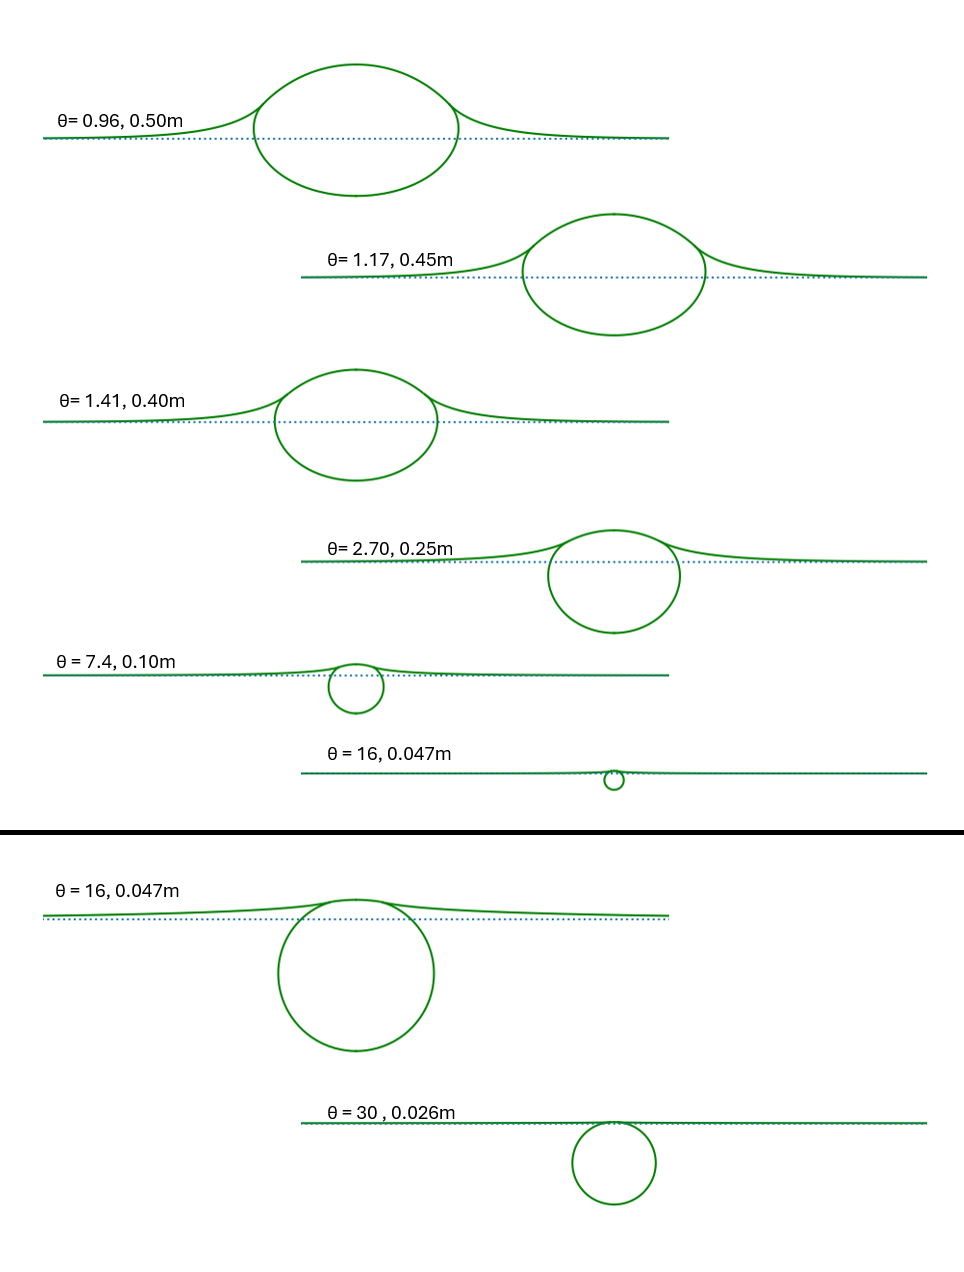
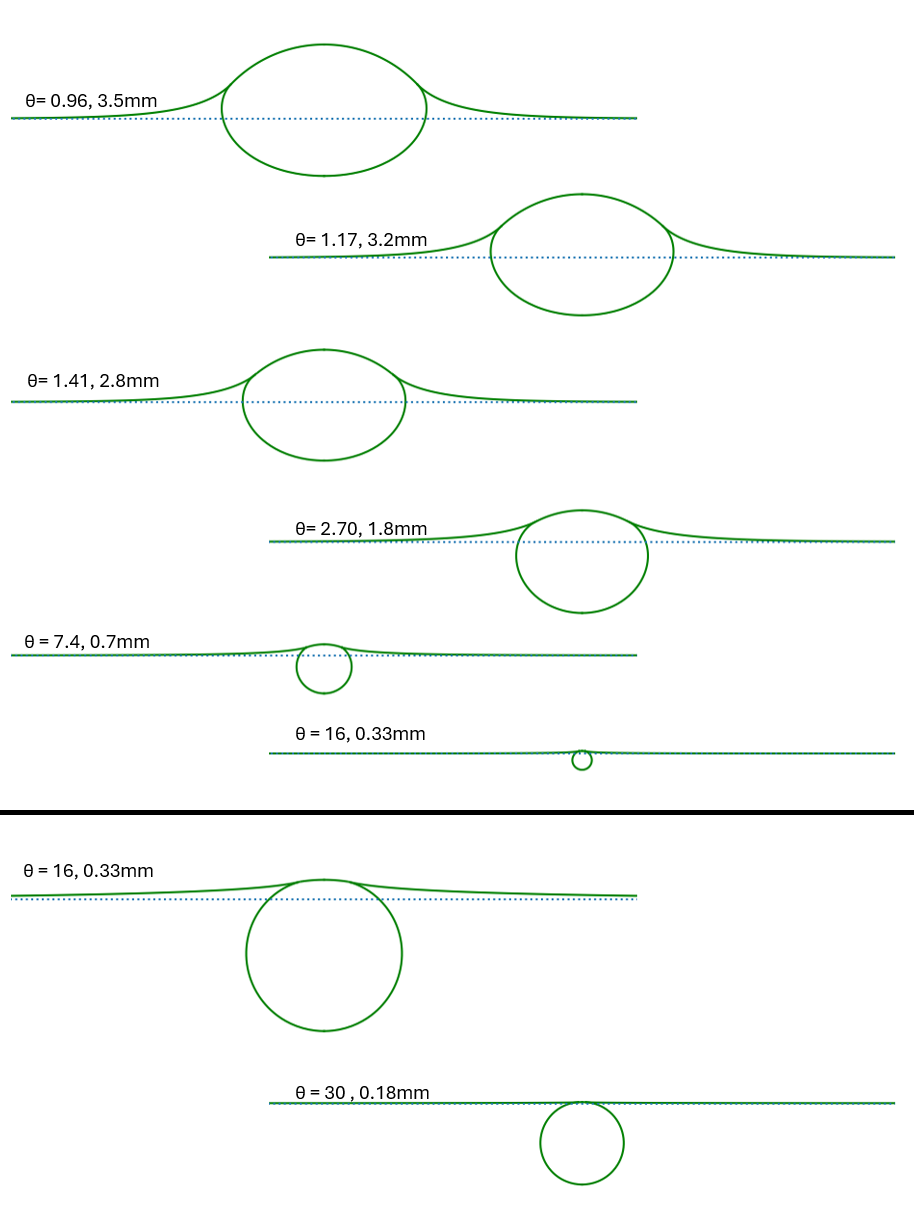
Updates from Overleaf

diff --git a/WriteUp/Initial conditions.tex b/WriteUp/Initial conditions.tex
@@ -1,21 +1,29 @@
 \section{Initial conditions}
+The shape of a bubble is determined by the interaction of two forces: Gravity and surface tension.
 
+Surface tension is an interfacial property of liquid that shows the elastic tendency, which is created by the attractive forces of the surface molecules
+
+
+
+\subsection{Governing Equations}
+Given the small size of the bubbles we are interested in, we can make the assumption that the cavity is initially motionless. Experiments have shown that, even in the absence of surfactants, a bubble can stay at the free surface in a quasi static equilibrium for a few seconds \cite{blanchard1988film}.
 We need to determine the initial shape of a bubble floating at a gas-liquid interface before it's film ruptures. This derivation is based on the work done in \cite{toba1959drop}.
+
 We are considering the case where the fluid is stationary, i.e. $\bf{u} = \bf{0}$, meaning on the boundaries we only need to consider the Young-Laplace equation:
 \begin{align}
     \Delta p=-\gamma \nabla \cdot \hat n
 \end{align}
 
-\begin{figure}[hb]
+\begin{figure}
     \centering
-    \includegraphics[width=0.55\linewidth]{WriteUp/images/bubble at surface.png}
-    \caption{A bubble floating at a surface}
+    \includegraphics[width=0.7\linewidth]{WriteUp/images/bubble at surface.png}
+    \caption{A bubble floating at a surface. Portion (A) in green is the portion of the bubble which is submerged in the liquid. Portion (B) in purple is the spherical cap of the bubble, where the sphere has radius $R_0$. Portion (C) in red is the meniscus of the bubble. All three portions meet at a point.}
     \label{fig:2}
 \end{figure}
 
 We can divide the surface of a bubble into three regions: (A) the submerged portion of the interface, (B) the thin film over the top of the bubble separating the two gas regions, (C) the regions of the interface trailing away from the border of the thin film. We neglect the thickness of the film means we can ignore the weight of the film. Adding that the difference between the gas pressures inside and out of the bubble is uniform, the thin film can be treated as a spherical surface of radius $R_0$. The force balance equations at any point on these surfaces are,
 \begin{align}\label{A_untransformed}
-    (\rho-\rho')gz = \gamma(\frac{1}{R_1}+\frac{1}{R_2}-\frac{4}{R_0})
+    (\rho-\rho')gz = \gamma \left( \frac{1}{R_1}+\frac{1}{R_2}-\frac{4}{R_0} \right)
 \end{align}
 for region (A),
 \begin{align}\label{B_untransformed}
@@ -63,7 +71,7 @@ Substituting in our coefficients for the first and second fundamental forms, sol
 \end{align}
 Notice that $R_1$ is exactly the radius of curvature of the meridian curve $\Gamma$
 We now introduce the variable $\phi$ defined to be the angle at which the tangent to $\Gamma$ makes with the x-axis. 
-\begin{figure}[hb]
+\begin{figure}
     \centering
     \includegraphics[width=0.55\linewidth]{WriteUp/images/tangent to bubble extra.png}
     \caption{A bubble floating at a surface with a tangent line at a point. This tangent intersects the $x$-axis with angle $\phi$}
@@ -116,7 +124,7 @@ Combining these all together we obtain
     \frac{1}{R_2}&=\frac{\sin(\phi)}{x},\\
     \frac{dz}{dx} &= \tan(\phi).
 \end{align}
-\begin{figure}[hb]
+\begin{figure}
     \centering
     \includegraphics[width=0.6\linewidth]{WriteUp/images/angles and trig.png}
     \caption{A bubble floating at a surface. Both a tangent line and a line normal to the curve are shown at a point. The distance along the normal between the point and the $z$-axis is given by $R$}
@@ -193,7 +201,7 @@ where $u=\sin \phi$. Transforming our ODE we obtain
          \end{bmatrix}
 \end{align}
 which we can then solve for $\phi \in [0,\pi]$.
-\begin{figure}[hb]
+\begin{figure}
     \centering
     \includegraphics[width=0.85\linewidth]{WriteUp/images/bottom curve.png}
     \caption{Solutions to \ref{less than} for various $\theta$ values}
@@ -216,9 +224,9 @@ where $ \bf{x} = \begin{bmatrix}
     \end{cases}
 \end{align}
 
-\begin{figure}[hb]
+\begin{figure}
     \centering
-    \includegraphics[width=0.85\linewidth]{WriteUp/images/top and bottom curve.png}
+    \includegraphics[width=0.65\linewidth]{WriteUp/images/top and bottom curve.png}
     \caption{Solutions to \ref{less than} and \ref{greater than} for various $\theta$ values}
     \label{fig:6}
 \end{figure}
@@ -227,7 +235,7 @@ where $ \bf{x} = \begin{bmatrix}
 
 The equations generating portion (C) are very similar to portion (A), unfortunately, the boundary conditions make it much harder to solve. Portion (C) is the meniscus of the bubble and we would like it to flatten out at infinity. This means we have the boundary conditions $\phi \rightarrow 0$, $\bar{z} \rightarrow 0$ as $x \rightarrow \infty$. These conditions are unable to be implemented numerically, instead we can consider initial conditions close to zero, i.e. $\bar{z}=\phi=0.00001$ at $\bar{x}=\bar{x}_0$. We can then denote $\bar{z}=f_2(\bar{x},\bar{x}_0)$ as a solution to \ref{C_transformed}
 
-\begin{figure}[hb]
+\begin{figure}
     \centering
     \includegraphics[width=0.85\linewidth]{WriteUp/images/menisc.png}
     \caption{Solutions to \ref{C_transformed} for various $\bar{x}_0$ values}
@@ -262,33 +270,39 @@ Then we are able to calculate $f_3(\bar{x},\bar{R}_0)$ and finally
     \bar{l} = f_3(\bar{x},\bar{R}_0)-f_1(\bar{x},\theta).
 \end{align}
 This reduces out problem to finding the roots of
-\begin{align}
-    \frac{d}{d\bar{x}}f_1(\bar{x},\theta) -\frac{d}{d\bar{x}}f_2(\bar{x},\bar{x}_0) &=0 \\
+\begin{align}\label{root 1}
+    \frac{d}{d\bar{x}}f_1(\bar{x},\theta) -\frac{d}{d\bar{x}}f_2(\bar{x},\bar{x}_0) &=0 \\ \label{root 2}
     \frac{d}{d\bar{x}}f_1(\bar{x},\theta) - \frac{d}{d\bar{x}}f_3(\bar{x},\bar{R}_0) &=0
 \end{align}
 \subsection{Solutions}
-We are now able to start computing solutions
-\begin{figure}[hb]
+We are now able to start computing solutions. In order to find the roots of \ref{root 1} and \ref{root 2}, we once again use SciPy. Due to the highly non-linear system we are solving, SciPy's root finding algorithms can be unreliable without a good initial guess. We are able to use data from \textit{TOBA} \cite{toba1959drop} as an initial guess for $\theta=2$, from there we could use our solution as an initial guess for $\theta=2.1$. This allows us to compute solutions for almost any $\theta$.
+
+\begin{figure}
     \centering
     \includegraphics[width=0.85\linewidth]{WriteUp/images/combined theta=1.6.png}
-    \caption{Solutions to full system for $\theta=1.6$}
+    \caption{Solutions to full system for $\theta=1.6$. We can see each portion meets at the point $(\bar{x},\bar{z})$ and that the derivatives match with one another}
     \label{fig:8}
 \end{figure}
-\begin{figure}[hb]
+
+After computing a solution for a given $\theta$, we are able to calculate the bubble's nondimensional width. We note that $\theta$ is inversely proportional to this width as can be seen in figure \ref{fig:10}.
+\begin{figure}
+    \centering
+    \includegraphics[width=0.85\linewidth]{WriteUp/images/Radius and volume.png}
+    \caption{Figure (a) shows the size of the major radius (width) of the bubble for varying values of $\theta$, we can see an inversely proportional relationship between the major radius and $\theta$. Figure (b) shows the calculated volume of the bubble for a given radius. We see for smaller radii, the calculated volume is almost exactly that of a sphere.}
+    \label{fig:10}
+\end{figure}
+
+For $\theta<1$ the solver becomes quite unreliable. This is due to the domain of $f_1$ shrinking, causing $f_1'$ to become incredibly sensitive to small changes in $\bar{x}$. This problem can be ignored however, as in this report we are considering bubbles formed at sea. As stated before, the scale of these bubbles is of order O($1$mm), transforming the radii we calculated for each theta (as shown in \ref{fig:8}) using the capillary constant for water ($a=2.71$ \cite{rapp2016microfluidics}) we find that for $\theta<0.9$ the radius of the bubble is greater than $5$mm. We can therefore safely ignore these small $\theta$ values as they do not correspond to any of the type of bubbles we are considering.
+\begin{figure}
     \centering
     \includegraphics[width=0.85\linewidth]{WriteUp/images/many bubbles ontop one another.png}
     \caption{Solutions to full system for $\theta=1.6,2.4,3.2,4.0,8.0,16.0$}
     \label{fig:9}
 \end{figure}
-\begin{figure}[hb]
-    \centering
-    \includegraphics[width=0.85\linewidth]{WriteUp/images/radius over theta.png}
-    \caption{Size of the major radius of the bubble for varying values of $\theta$}
-    \label{fig:10}
-\end{figure}
-\begin{figure}[hb]
-    \centering
-    \includegraphics[width=0.95\linewidth]{WriteUp/images/Bubble profiles.png}
-    \caption{Various bubble profiles scaled with $a=0.3848$ corresponding to sea water at $4 \degree \text{C}$ which was experimentally calculated by HAYAMI, S. and Y. TOBA,\ref{hayami1958drop}. The last two interfaces $\theta=16,30.8$ are scaled up.}
+In figure \ref{fig:9} we see a clear trend in the shape of the bubble as $\theta$ increases. For larger values we see surface tension forces dominate, resulting in a spherical bubbles floating tangent to the surface of the water. As the bubble gets larger, the gravitational forces increase, causing the cap of the bubble to rise further above the water level. Figure \ref{fig:11} shows the shape of air bubbles in sea water for radii between $3.5$mm and $0.18$mm.
+
+\begin{figure}
+    \centering    \includegraphics[width=0.95\linewidth]{WriteUp/images/Bubble profiles.png}
+    \caption{Various bubble profiles scaled with $a=2.71mm$ corresponding to the capillary length of water under standard conditions \cite{rapp2016microfluidics}. The last two interfaces $\theta=16,30.8$ are scaled up. We see as $\theta$ decreases, the shape of the interface approaches the shape of a sphere just beneath the surface.}
     \label{fig:11}
 \end{figure}

diff --git a/WriteUp/Introduction.tex b/WriteUp/Introduction.tex
@@ -5,22 +5,18 @@ Bubbles within liquids are incredibly common, occurring in both a wide spectrum 
 There are two Phenomena that occur when a bubble bursts that produce aerosols, the first being when the thin film separating the bubble from the atmosphere is ruptured. The atomisation of the film can produce several hundred droplets of around a micrometer in diameter. Due to the length scales of the rupture being order O($100$nm), we are unable to describe this problem with continuum mechanics. In fact, van der Waals forces or electrostatic repulsion must be considered, both of which are long-range intermolecular forces.
 
 After the film rupture, the remaining cavity collapses causing a jet to form. This jet eventually breaches into one or more droplets. The key difference between these droplets and the droplets formed when the film ruptures is that they are much larger, order O($100 \mu$m) for a typical bubble with a diameter of a millimeter. They are also ejected vertically with a typical ejection velecity of order O($1$ms$^{-1}$).
-\begin{figure}[hb]
+\begin{figure}[H]
     \centering
-    \includegraphics[width=0.55\linewidth]{WriteUp/images/Untitled.png}
+    \includegraphics[width=0.75\linewidth]{WriteUp/images/droplet release 3D.png}
     \caption{An image of jet formation due to a burst bubble}
     \label{fig:1}
 \end{figure}
 
-Literature review goes here:
+Since the pioneering study of bursting bubbles by Woodcock \textit{et al.} \cite{woodcock1953giant}, numerous studies have been made documenting jet drop properties. The first comprehensive study using numerical simulations based on a free-surface formulation of the Navier-Stokes equations was done in 2002 by Duchemin \textit{et al.} \cite{duchemin2002jet
+}.
 
+In this paper they used a volume-of-fluid (VOF) type method to investigate quantities such as the jet velocity, maximum pressure on the axis of symmetry and radius of the first ejected drop. They compared their numerical data with experimental data published by MacIntyre \cite{macintyre1972flow} and found the overall agreement satisfactory. The method was able to resolve small capillary wave and still scuratly predict large scale features of the dynamics, the pressure and final droplet radius.
 
-just some notes:
+Another aim of this paper was to investigate bubble entrapment. This is when a new bubble is formed underneath the collapsing cavity of the old bubble. Two entrapment regions were found, the first for $576<R/R_v<2016$ and the second between $57\:600<R/R_v<288\:000$ where $R$ is the radius of the bubble and $R_v=\rho\nu^2/\sigma$ is the viscous-capillary length with $\rho$, $\nu$ and $\sigma$ being liquid density, kinematic viscosity and surface tension respectively. Other regions of entrapment at higher values of $R/R_v$ was speculated but was said to be difficult to observe numerically.
 
-\begin{align*}
-We = \frac{\rho v^2 L}{\sigma}\\
-La = \frac{\sigma \rho L}{\mu^2} \\
-Re = \sqrt{LaWe}\\
-Bo = \frac{\Delta \rho g L^2}{\sigma}\\
-Oh = (La)^{-0.5})\\
-\end{align*}
+Duchemin \textit{et al.} also showed that the jets are produced by the self-similar collapse of a cavity created by capillary waves.

diff --git a/WriteUp/Basilisk.tex b/WriteUp/Basilisk.tex
@@ -1,2 +1,28 @@
-\section{Initial conditions}
+\section{Numerical computation}
 
+The bubble is initially separated from the atmosphere by a thin liquid film. This film drains slowly until it reaches a critical thickness (about 100 nm) after which it breaks rapidly (how fast depends on the presence of surface contaminants). This means it is possible to run simulations by taking the initial condition calculated previously and removing the spherical cap. When we do this, a sharp corner is formed at the rim of the top of the bubble.
+
+\subsection{Governing Equations}
+
+In order to solve the evolution of the interface of a bursting bubble will need to numerically solve the Navier-Stokes equations:
+\begin{itemize}
+    \item Away from the interface:
+\end{itemize}
+\begin{align}
+    \nabla \cdot \textbf{u}=0, \\
+    \rho \frac{D \textbf{u}}{D t} = -\nabla p + \mu \nabla^2 u + \rho g.
+\end{align}
+\begin{itemize}
+    \item On the interface:
+    \begin{itemize}
+        \item Kinematic boundary condition:
+        \begin{align}
+            \frac{D f}{D t} = 0.
+            
+        \end{align}
+        \item Dynamic boundary condition:
+        \begin{align}
+            [\textbf{Tn}]^+_-= \gamma \kappa \textbf{n}
+        \end{align}
+    \end{itemize}
+\end{itemize}

diff --git a/WriteUp/Scaling laws.tex b/WriteUp/Scaling laws.tex
@@ -1,6 +1,13 @@
 \section{Scaling Laws}
 
-There are two main phases of a bubble bursting. First is an initial cavity colapse
+There are two main phases of a bubble bursting. First is an initial cavity collapse, creating a singularity. This singularity causes a jet to rapidly shoot upwards and possibly release droplets.
+
+\begin{figure}[!h]
+    \centering
+    \includegraphics[width=0.8\linewidth]{WriteUp/images/many 3D profiles.png}
+    \caption{Evolution of a bubble bursting. In figures (a)-(c) we see the cavity collapsing in on itself. In figures (e)-(f) we see the formation of the jet and in figure (f) we see the release of a droplet}
+    \label{fig:Profiles}
+\end{figure}
 
 Recently, progress was made linking jet dynamics with the physical properties of the liquid. Ghabache \textit{et al.} \cite{ghabache2014physics} developed scaling laws for the jet velocity as a function of the size of the jet drop, the liquid properties and the initial size of the bubble. A set of scaling laws
 for the jet velocity, as well as the radial and axial length of
